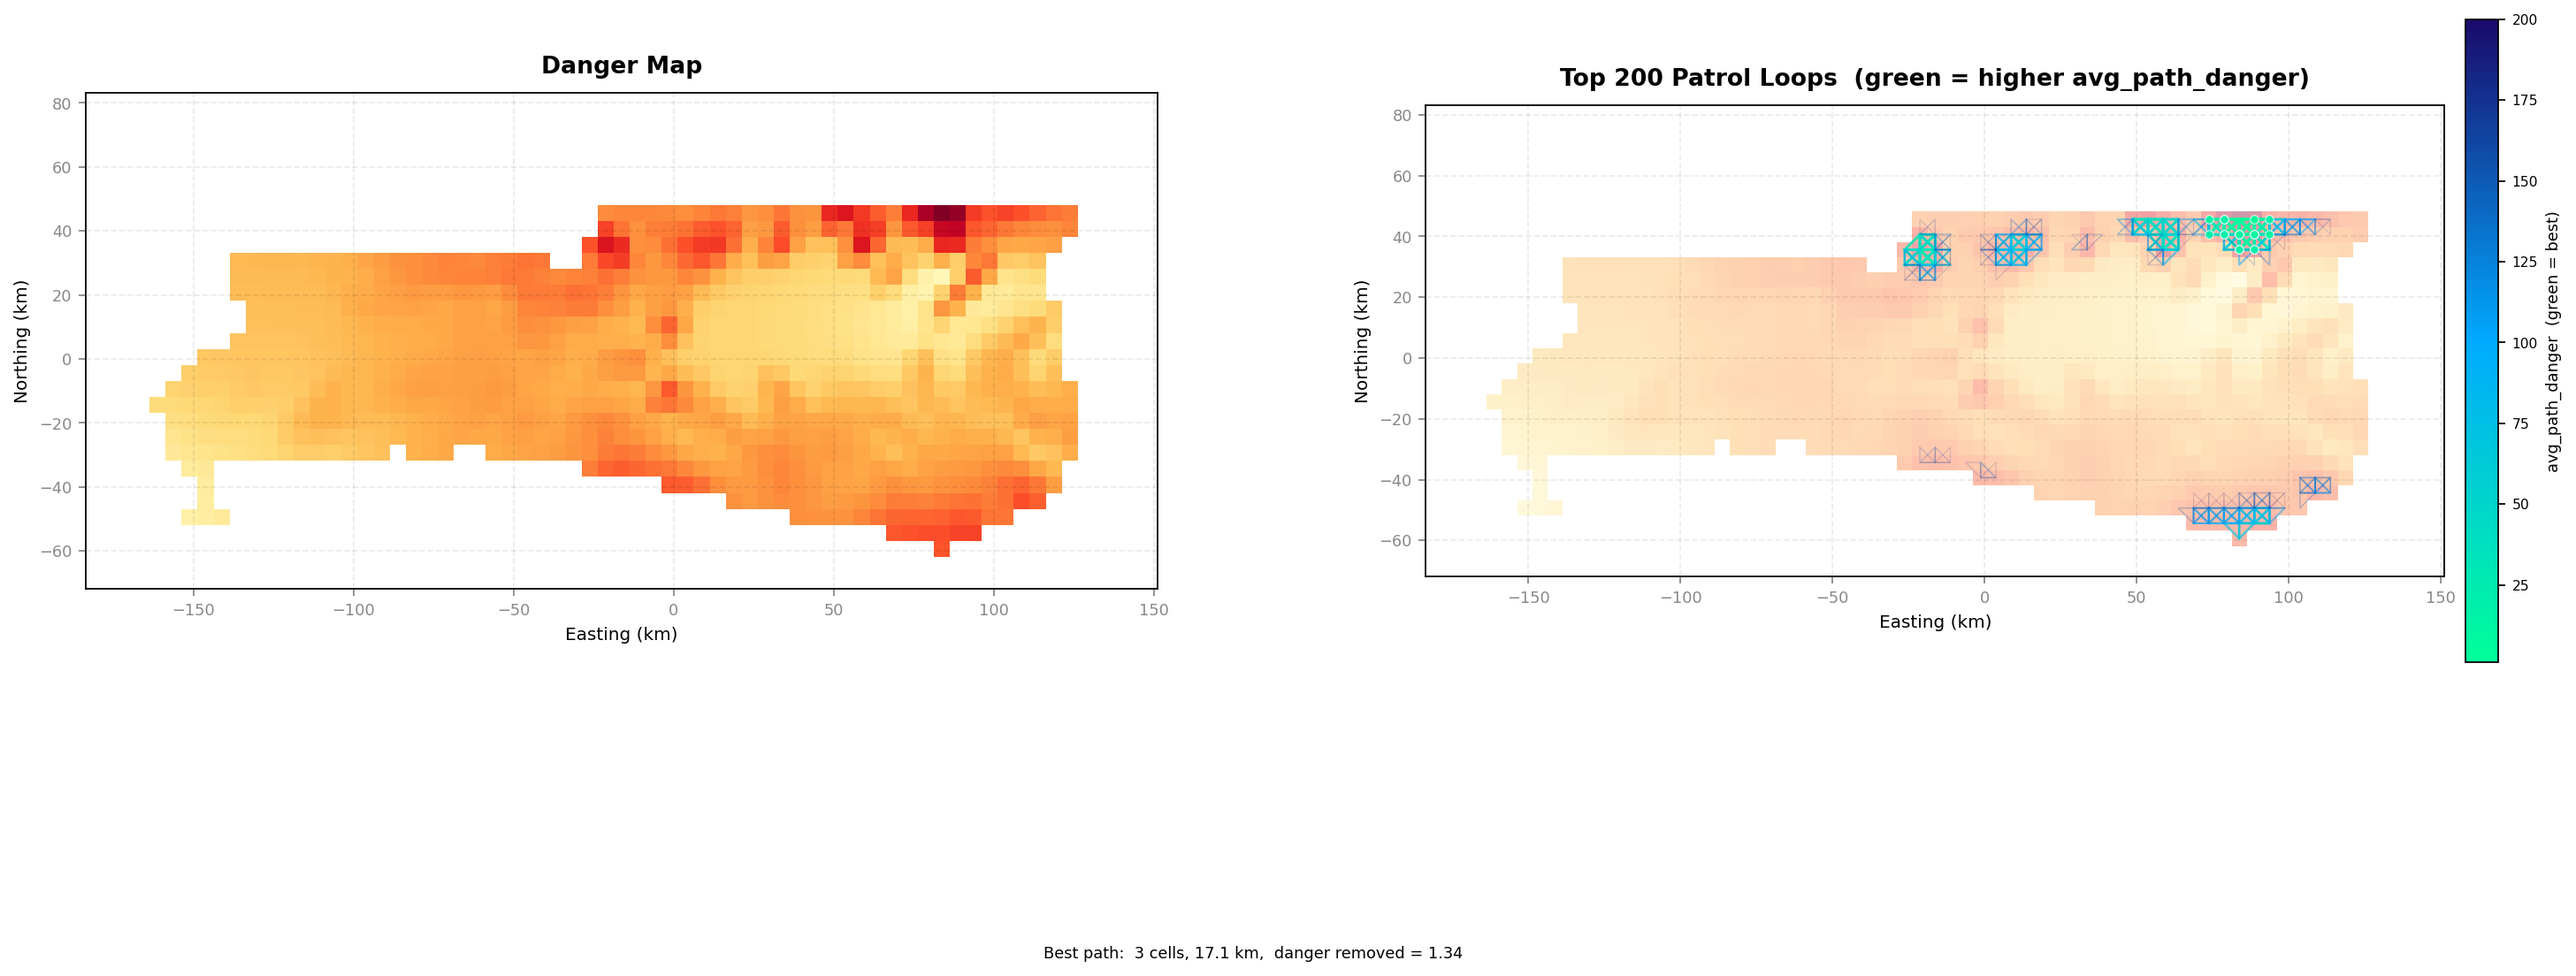
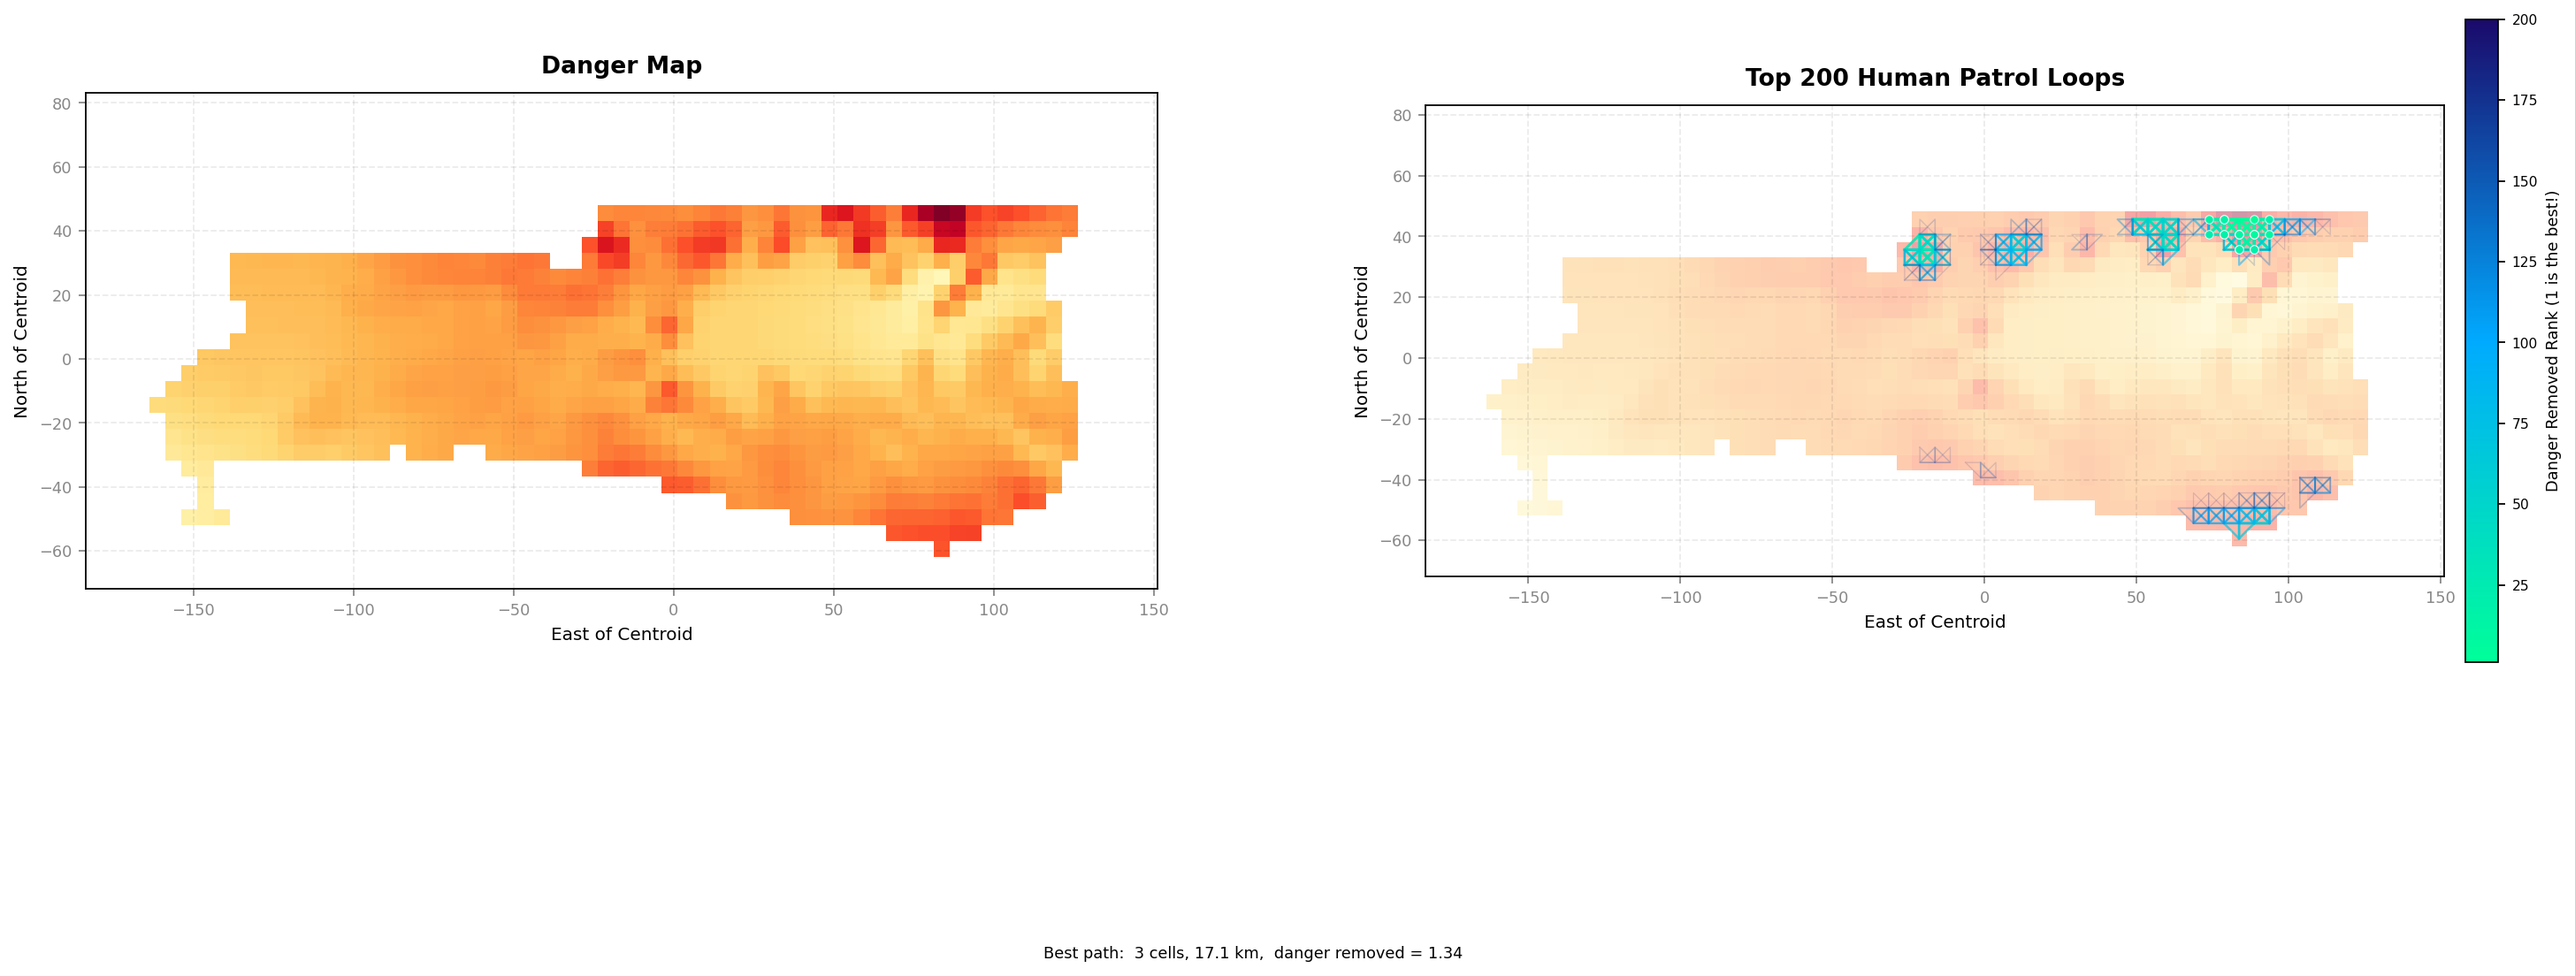
stuff? idk

diff --git a/pathgraph.py b/pathgraph.py
@@ -124,7 +124,7 @@ def main():
 
     # ── Panel B: paths overlaid on danger ─────────────────────────────────────
     ax1 = axes[1]
-    style_ax(ax1, f"Top {n_paths} Patrol Loops")
+    style_ax(ax1, f"Top {n_paths} Human Patrol Loops")
     ax1.pcolormesh(XI, YI, display,
                    cmap="YlOrRd", norm=danger_norm,
                    shading="nearest", alpha=0.4, zorder=1)
@@ -151,7 +151,7 @@ def main():
                            norm=mcolors.Normalize(vmin=1, vmax=n_paths))
     sm.set_array([])
     cbar = fig.colorbar(sm, ax=ax1, fraction=0.03, pad=0.02)
-    cbar.set_label("danger ", color="black", fontsize=8)
+    cbar.set_label("Danger Removed Rank (1 is the best!)", color="black", fontsize=8)
     cbar.ax.yaxis.set_tick_params(color="black", labelsize=7)
     plt.setp(cbar.ax.yaxis.get_ticklabels(), color="black")
 
